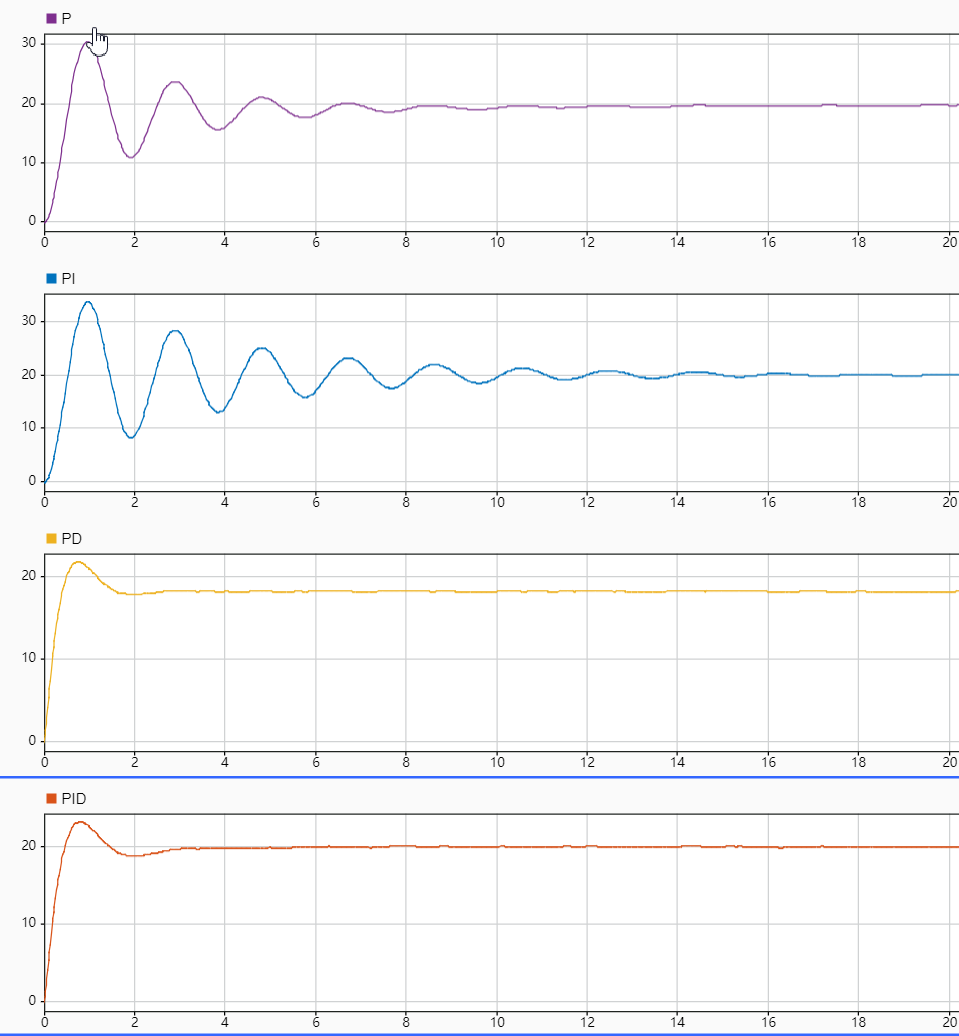
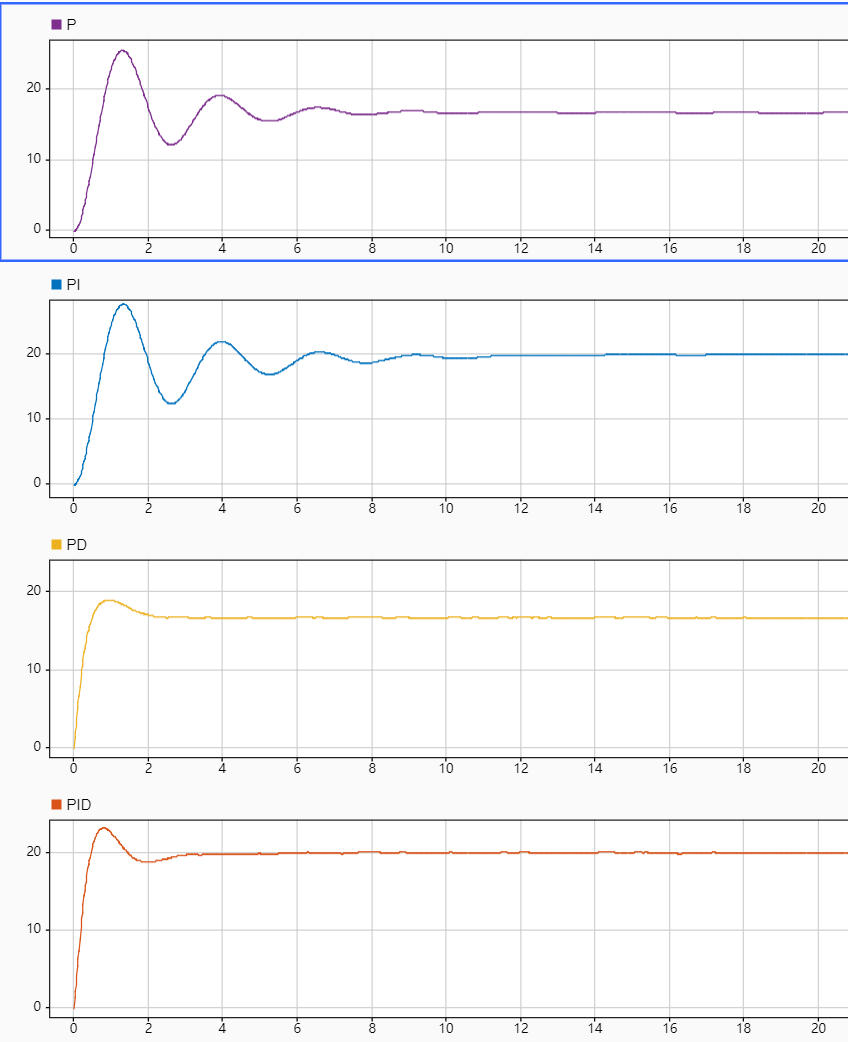
px4 base
add operational flight
add connect QGC
update some detail

Changed region(s): [[0.0, 0.0, 1.0, 1.0], [0.9811, 0.4015, 1.0, 0.4324], [0.092, 0.6178, 0.1226, 0.6486]]

diff --git a/doc/source/docs/baseconfig_for_px4/6-飞行模式.rst b/doc/source/docs/baseconfig_for_px4/6-飞行模式.rst
@@ -26,8 +26,8 @@ ALTITUDE CONTROL：高度模式
 横滚、俯仰和偏航的输入与手动模式一致；
 当摇杆在~50%油门左右，飞行器将保持当前高度；
 油门有一个很大的死区，超出后控制上升或下降速度。
-参数：MPC_Z_VEL_MAX_UP：最大上升速度，默认3m/s；
-           MPZ_Z_VEL_MAX_DOWN：最大下降速度，默认1m/s；
+参数：MPC_Z_VEL_MAX_UP：最大上升速度,默认3.0m/s。
+           MPZ_Z_VEL_MAX_DOWN：最大下降速度，默认1.0m/s。
            RCX_DZ：X通道（油门通道，由RC_MAP_THROTTLE设定）的死区；
            MPC_XXX：影响飞行表现的参数，例如MPC_THR_HOVER定义飞行器悬停的油门。
 
@@ -35,7 +35,6 @@ POSITION CONTROL：位置模式
 横滚控制左右移动速度、俯仰控制前后移动速度，当摇杆回中时飞行器会保持位置；
 偏航控制速度，与手动模式一致；
 油门控制上升或下降的速率，与ALTITUDE一致；
-注意：不要在POSITION模式降落，应采用手动模式。
 
 自动模式
 ^^^^^^^^^^^^^^
@@ -47,7 +46,7 @@ HOLD：保持模式
 RTL：返航模式
 返回HOME位置等待或降落（依赖GPS）。
 飞行器会首先上升到RTL_RETURN_ALT高度（默认60m，如果实际飞行高于此高度则保持），然后直线飞行HOME位置；
-到达HOME后，会快速降低到RTL_DESCEND_ALT高度（缓降或停止高度，默认30m），会悬停RTL_LAND_DELAY时间后降落（默认0.5s，设置为-1表示永远悬停）；
+到达HOME后，会快速降低到RTL_DESCEND_ALT高度（缓降或停止高度，默认30m），会悬停RTL_LAND_DELAY时间后降落（默认0s，设置为-1表示永远悬停）；
 参数：RTL_MIN_DIST：触发上升的最小距离，如果水平位置离HOME很近，飞行器将直接降落到HOME而非升高到返回高度。
 
 TAKE OFF：起飞模式
@@ -77,10 +76,10 @@ MISSION：任务模式
 飞行模式设置
 -------------------
 
-可以在遥控器上设置通道，一般三挡开关对应飞行模式1、飞行模式4、飞行模式6。入图所示，此时通道5设置的三个模式分别为自稳模式、定点模式、降落模式。
+可以在遥控器上设置通道，一般三挡开关对应飞行模式1、飞行模式4、飞行模式6。如图所示，此时通道5设置的三个模式分别为自稳模式、定点模式、降落模式。
 
 .. image:: ../../images/baseconfig_for_px4/5-flightmodes.png
 
-如有需要板载计算机模式和返航模式，也可在开关设置下自行设置。入图所示，设置通道6为offboard模式，通道7为返航模式。
+如有需要板载计算机模式和返航模式，也可在开关设置下自行设置。如图所示，设置通道6为offboard模式，通道7为返航模式。
 
 .. image:: ../../images/baseconfig_for_px4/5-flightmodes-additional.png

diff --git a/doc/source/docs/baseconfig_for_px4/10-PID调参.rst b/doc/source/docs/baseconfig_for_px4/10-PID调参.rst
@@ -1,0 +1,30 @@
+PID调参
+=================
+
+PID调节图示
+--------------
+
+p为比例项、i为积分项、d为微分项。pid简单来说是一种传函，是在执行器机构传函确定好以后，期望值与观测值有误差，不符合期望值，所以使用pid作为一种调节手段使飞机的观测值达到期望值。pid调参可用如下一张图来解释说明。下图中的期望值为20
+纯比例P作用下在稳定后有静态误差，为了弥补静态误差，因此引入积分项I。
+PI作用下，虽然弥补了静态误差，但是因为引入了积分项，使得调节过程中峰值增加，调节周期增长，所以也有不足之处。
+PD作用下，加快了调节时间减小了调节幅度，但是当系统稳定时与输入有较大误差，D项作用过大的话会引起一定的震动。
+综合以上，PID作用下，调节的又快又好还没有误差，因此PID调节是理想的控制调节策略。
+
+.. image:: ../../images/baseconfig_for_px4/9-pid.png
+
+参数调节
+------------------
+
+在调节参数之前，应该了解px4的代码框架，了解位置控制与姿态控制的关系，内环与外环的关系。
+
+姿态控制的角度环参数
+
+.. image:: ../../images/baseconfig_for_px4/9-pid-att.png
+
+姿态控制的角速度环参数
+
+.. image:: ../../images/baseconfig_for_px4/9-pid-rate.png
+
+位置控制参数
+
+.. image:: ../../images/baseconfig_for_px4/9-pid-position.png

diff --git a/doc/source/docs/baseconfig_for_px4/11-任务飞行.rst b/doc/source/docs/baseconfig_for_px4/11-任务飞行.rst
@@ -1,0 +1,36 @@
+任务飞行
+=================
+
+点击如下界面，进入航点规划界面
+
+.. image:: ../../images/baseconfig_for_px4/10-mission-icon.png
+
+点击“文件”，选择“Survey”
+
+.. image:: ../../images/baseconfig_for_px4/10-mission-survey.png
+
+进入航点规划界面，点击“航点”，即可设置若干个航点。
+
+.. image:: ../../images/baseconfig_for_px4/10-mission-waypoint.png
+
+在右侧可以设置“高度”与“速度”。在“Mission Start”上可以统一设置每个航点的高度与速度。
+
+.. image:: ../../images/baseconfig_for_px4/10-mission-missionstart.png
+
+在每个航点上也可以设置高度、速度、与停留时间。如图所示，设置航点高度为50m，速度为5m/s，停留时间为3s。
+
+.. image:: ../../images/baseconfig_for_px4/10-mission-everypoint.png
+
+点击航点旁边的“倒三角”，可以设置航点的类型，分别为任务点、返航点、降落点、起飞点。
+
+.. image:: ../../images/baseconfig_for_px4/10-mission-triangle.png
+
+.. image:: ../../images/baseconfig_for_px4/10-mission-type.png
+
+在最后一行，标有“测绘”字样的航点旁边，点击“删除”，删掉最后一个任务点，否则不能上传任务。
+
+.. image:: ../../images/baseconfig_for_px4/10-mission-delete.png
+
+点击右上角“需要上传”，航点规划就完毕了。
+
+.. image:: ../../images/baseconfig_for_px4/10-mission-update.png

diff --git a/doc/source/index.rst b/doc/source/index.rst
@@ -40,17 +40,18 @@ amovlab 文档
    :maxdepth: 2
    :hidden:
    :caption: PX4基础配置
-
-   固件刷写 <docs/baseconfig_for_px4/1-固件刷写>
-   机架选择 <docs/baseconfig_for_px4/2-机架选择>
-   传感器校准 <docs/baseconfig_for_px4/3-传感器校准>
-   遥控器校准 <docs/baseconfig_for_px4/4-遥控器校准>
-   飞行模式设置 <docs/baseconfig_for_px4/5-飞行模式设置>
-   电池校准 <docs/baseconfig_for_px4/6-电池校准>
-   电调校准 <docs/baseconfig_for_px4/7-电调校准>
-   常用参数设置 <docs/baseconfig_for_px4/8-常用参数设置>
-   PID调参 <docs/baseconfig_for_px4/9-PID调参>
-   任务飞行 <docs/baseconfig_for_px4/10-任务飞行>
+   
+   连接飞控 <docs/baseconfig_for_px4/1-连接飞控>
+   固件刷写 <docs/baseconfig_for_px4/2-固件刷写>
+   机架选择 <docs/baseconfig_for_px4/3-机架选择>
+   传感器校准 <docs/baseconfig_for_px4/4-传感器校准>
+   遥控器校准 <docs/baseconfig_for_px4/5-遥控器校准>
+   飞行模式设置 <docs/baseconfig_for_px4/6-飞行模式设置>
+   电池校准 <docs/baseconfig_for_px4/7-电池校准>
+   电调校准 <docs/baseconfig_for_px4/8-电调校准>
+   常用参数设置 <docs/baseconfig_for_px4/9-常用参数设置>
+   PID调参 <docs/baseconfig_for_px4/10-PID调参>
+   任务飞行 <docs/baseconfig_for_px4/11-任务飞行>
 
 .. toctree::
    :maxdepth: 2

diff --git a/doc/source/docs/baseconfig_for_px4/9-常用参数设置.rst b/doc/source/docs/baseconfig_for_px4/9-常用参数设置.rst
@@ -1,0 +1,34 @@
+常用的参数设置
+=====================
+
+在参数设置下面的搜索界面，搜索关键字即可调整参数。
+
+.. image:: ../../images/baseconfig_for_px4/8-parameters.png
+
+常用参数：
+
+aid_mask：位置估计来源选择
+
+.. image:: ../../images/baseconfig_for_px4/8-parameters-aid.png
+
+hgt_mode：高度估计来源选择
+
+.. image:: ../../images/baseconfig_for_px4/8-parameters-hgt.png
+
+Mag_sides:传感器校准面数选择
+
+.. image:: ../../images/baseconfig_for_px4/8-parameters-mag-sides.png
+
+Usb_chk：当用数据线调试飞机时，有时会显示“usb is not safe”，此时搜索“usb_chk”把数值调到197847最大值即可。
+
+.. image:: ../../images/baseconfig_for_px4/8-parameters-usb.png
+
+.. image:: ../../images/baseconfig_for_px4/8-parameters-usbvalue.png
+
+CBRK_I0_Safety：安全开关
+
+当提示无法解锁飞机时，把CBRK_IO_SAFETY数值调到最大值22027，相当于禁用安全开关。
+
+.. image:: ../../images/baseconfig_for_px4/8-parameters-safety.png
+
+.. image:: ../../images/baseconfig_for_px4/8-parameters-safetyvalue.png

diff --git a/doc/source/docs/baseconfig_for_px4/2-固件刷写.rst b/doc/source/docs/baseconfig_for_px4/2-固件刷写.rst
@@ -4,7 +4,7 @@
 选择烧写固件
 ----------------
 
-操作界面选择在三个齿轮下，在“固件”界面下，用usb线连接电脑与飞控。会弹出入图所示的界面，右方点击“高级设置”，选择标准版。点击确定。
+操作界面选择在三个齿轮下，在“固件”界面下，用usb线连接电脑与飞控。会弹出如图所示的界面，右方点击“高级设置”，选择标准版。点击确定。
 如果有自己的固件，可以选择“自定义固件”，找到自己的固件相应路径，点击确定即可烧写。
 
 .. image:: ../../images/baseconfig_for_px4/1-firmware-upgrade.png

diff --git a/doc/source/docs/baseconfig_for_px4/1-连接飞控.rst b/doc/source/docs/baseconfig_for_px4/1-连接飞控.rst
@@ -1,0 +1,18 @@
+连接飞控
+================
+
+连接飞控有两种方式：一种是通过数据线连接。另一种是通过飞机的WiFi数传连接。
+
+    1. 通过数据线连接
+连接飞机与电脑，此时会自动连接QGC
+
+    2. 通过WiFi数传连接
+首先连接wifi，选择WiFi名称并输入密码。WIFI的标签在飞机底部。
+
+.. image:: ../../images/baseconfig_for_px4/0-connect-wifiname.png
+
+.. image:: ../../images/baseconfig_for_px4/0-connect-ipname.png
+
+然后输入IP地址与端口号。点击连接即可。
+
+.. image:: ../../images/baseconfig_for_px4/0-connect-inputtcp.png

diff --git a/doc/source/docs/baseconfig_for_px4/7-电池校准.rst b/doc/source/docs/baseconfig_for_px4/7-电池校准.rst
@@ -9,7 +9,7 @@
 
 .. image:: ../../images/baseconfig_for_px4/6-voltage-divider.png
 
-入图所示，在测量电压下输入已经测得的实际电压，然后点击“Calculate”
+如图所示，在测量电压下输入已经测得的实际电压，然后点击“Calculate”
 
 .. image:: ../../images/baseconfig_for_px4/6-voltage-divider-calculate.png
 
